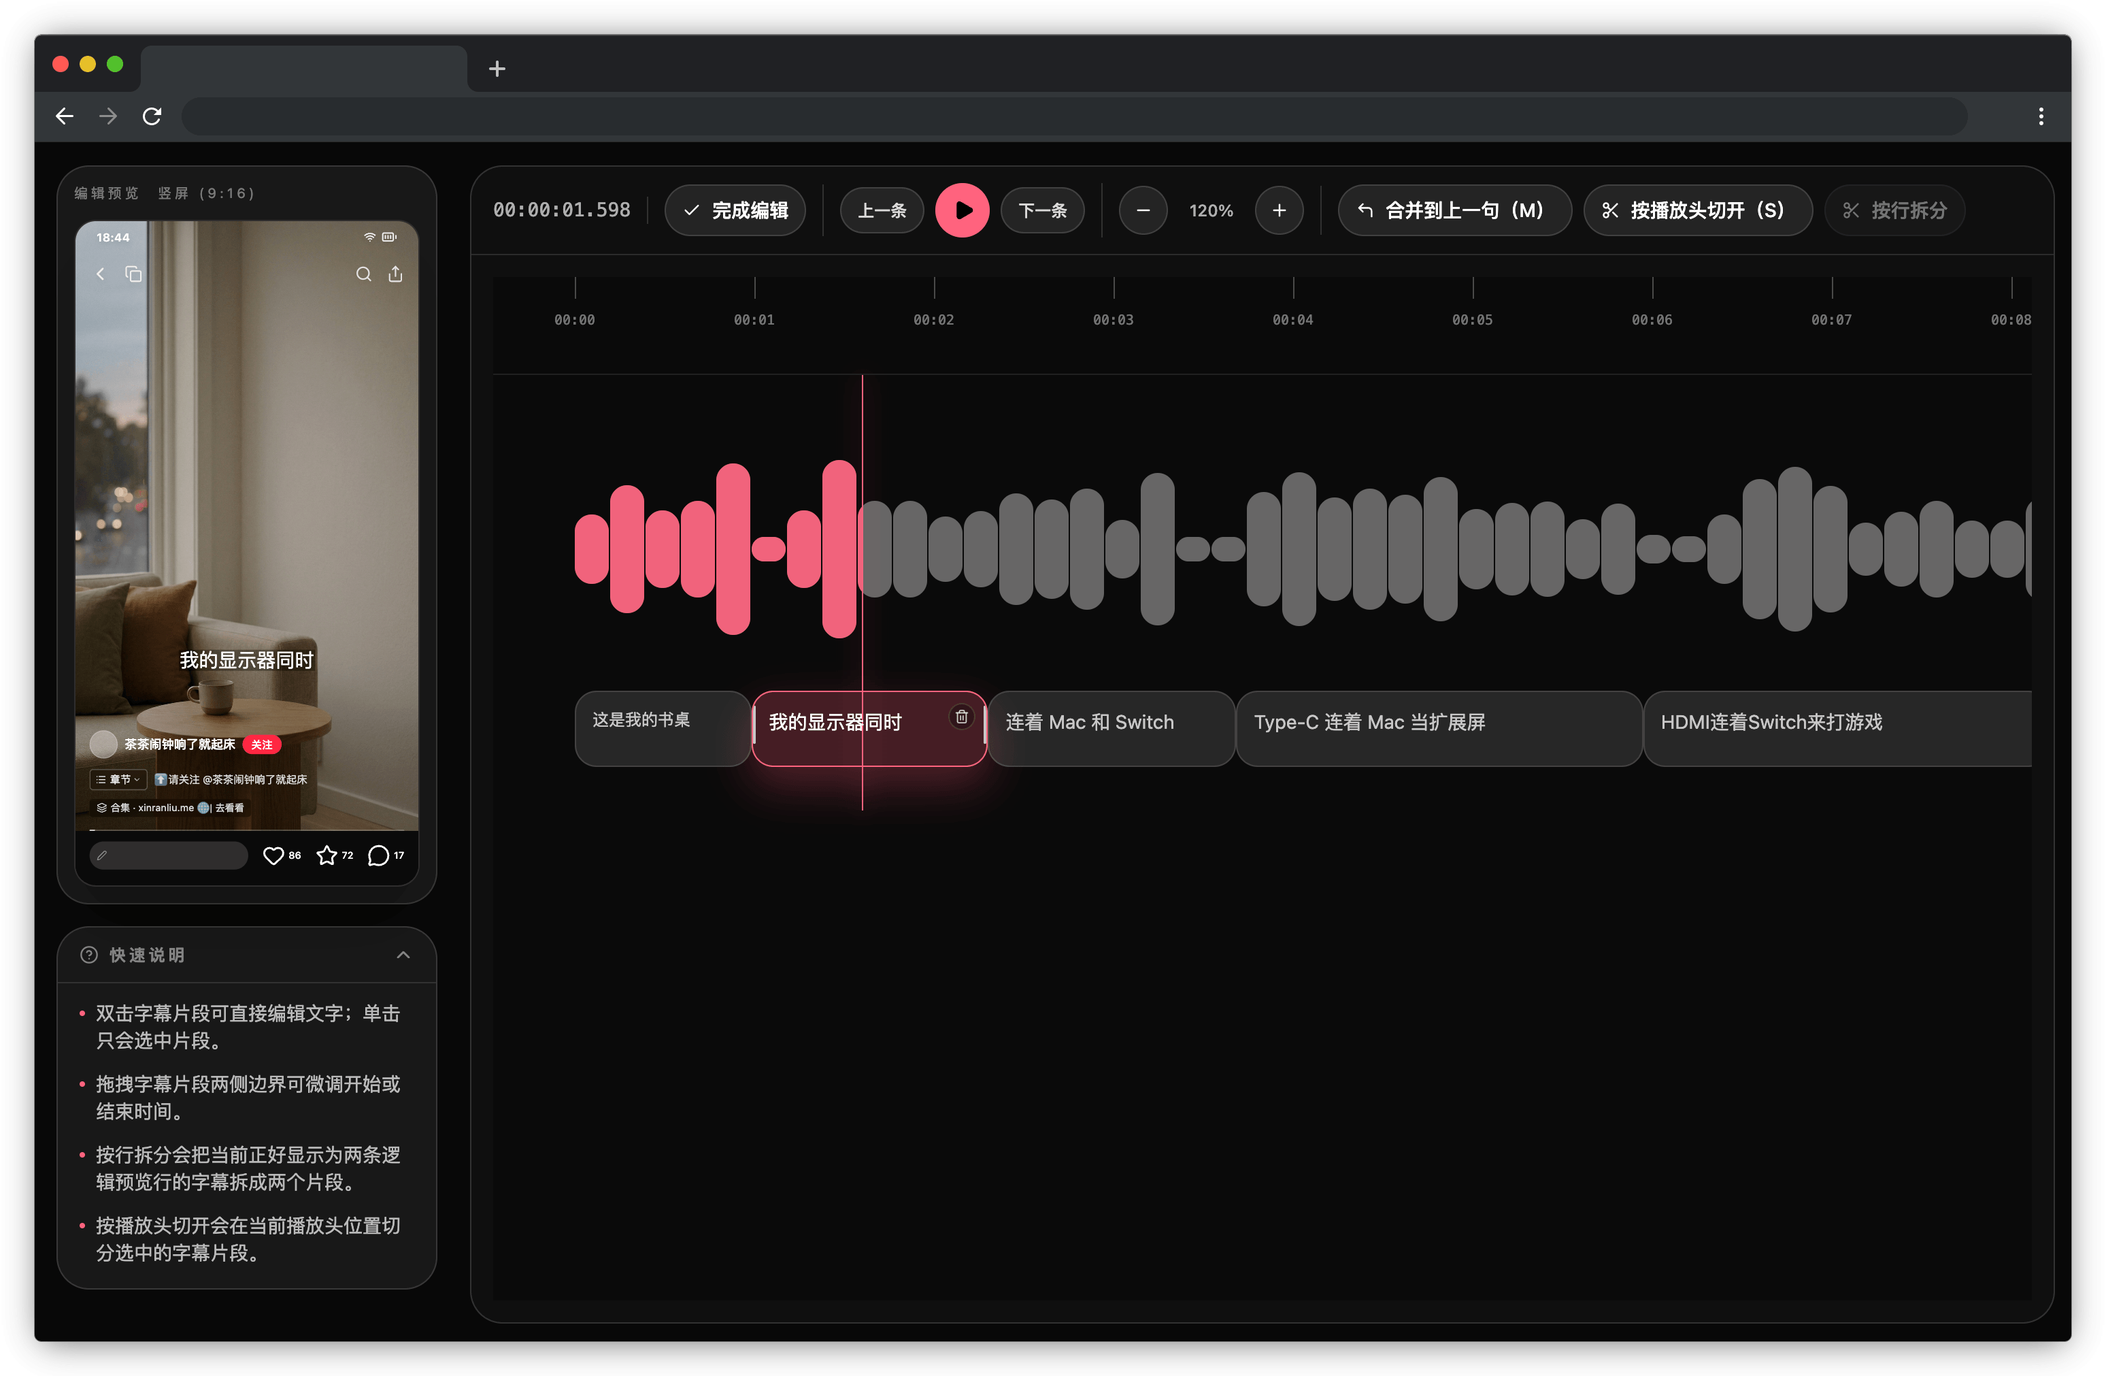
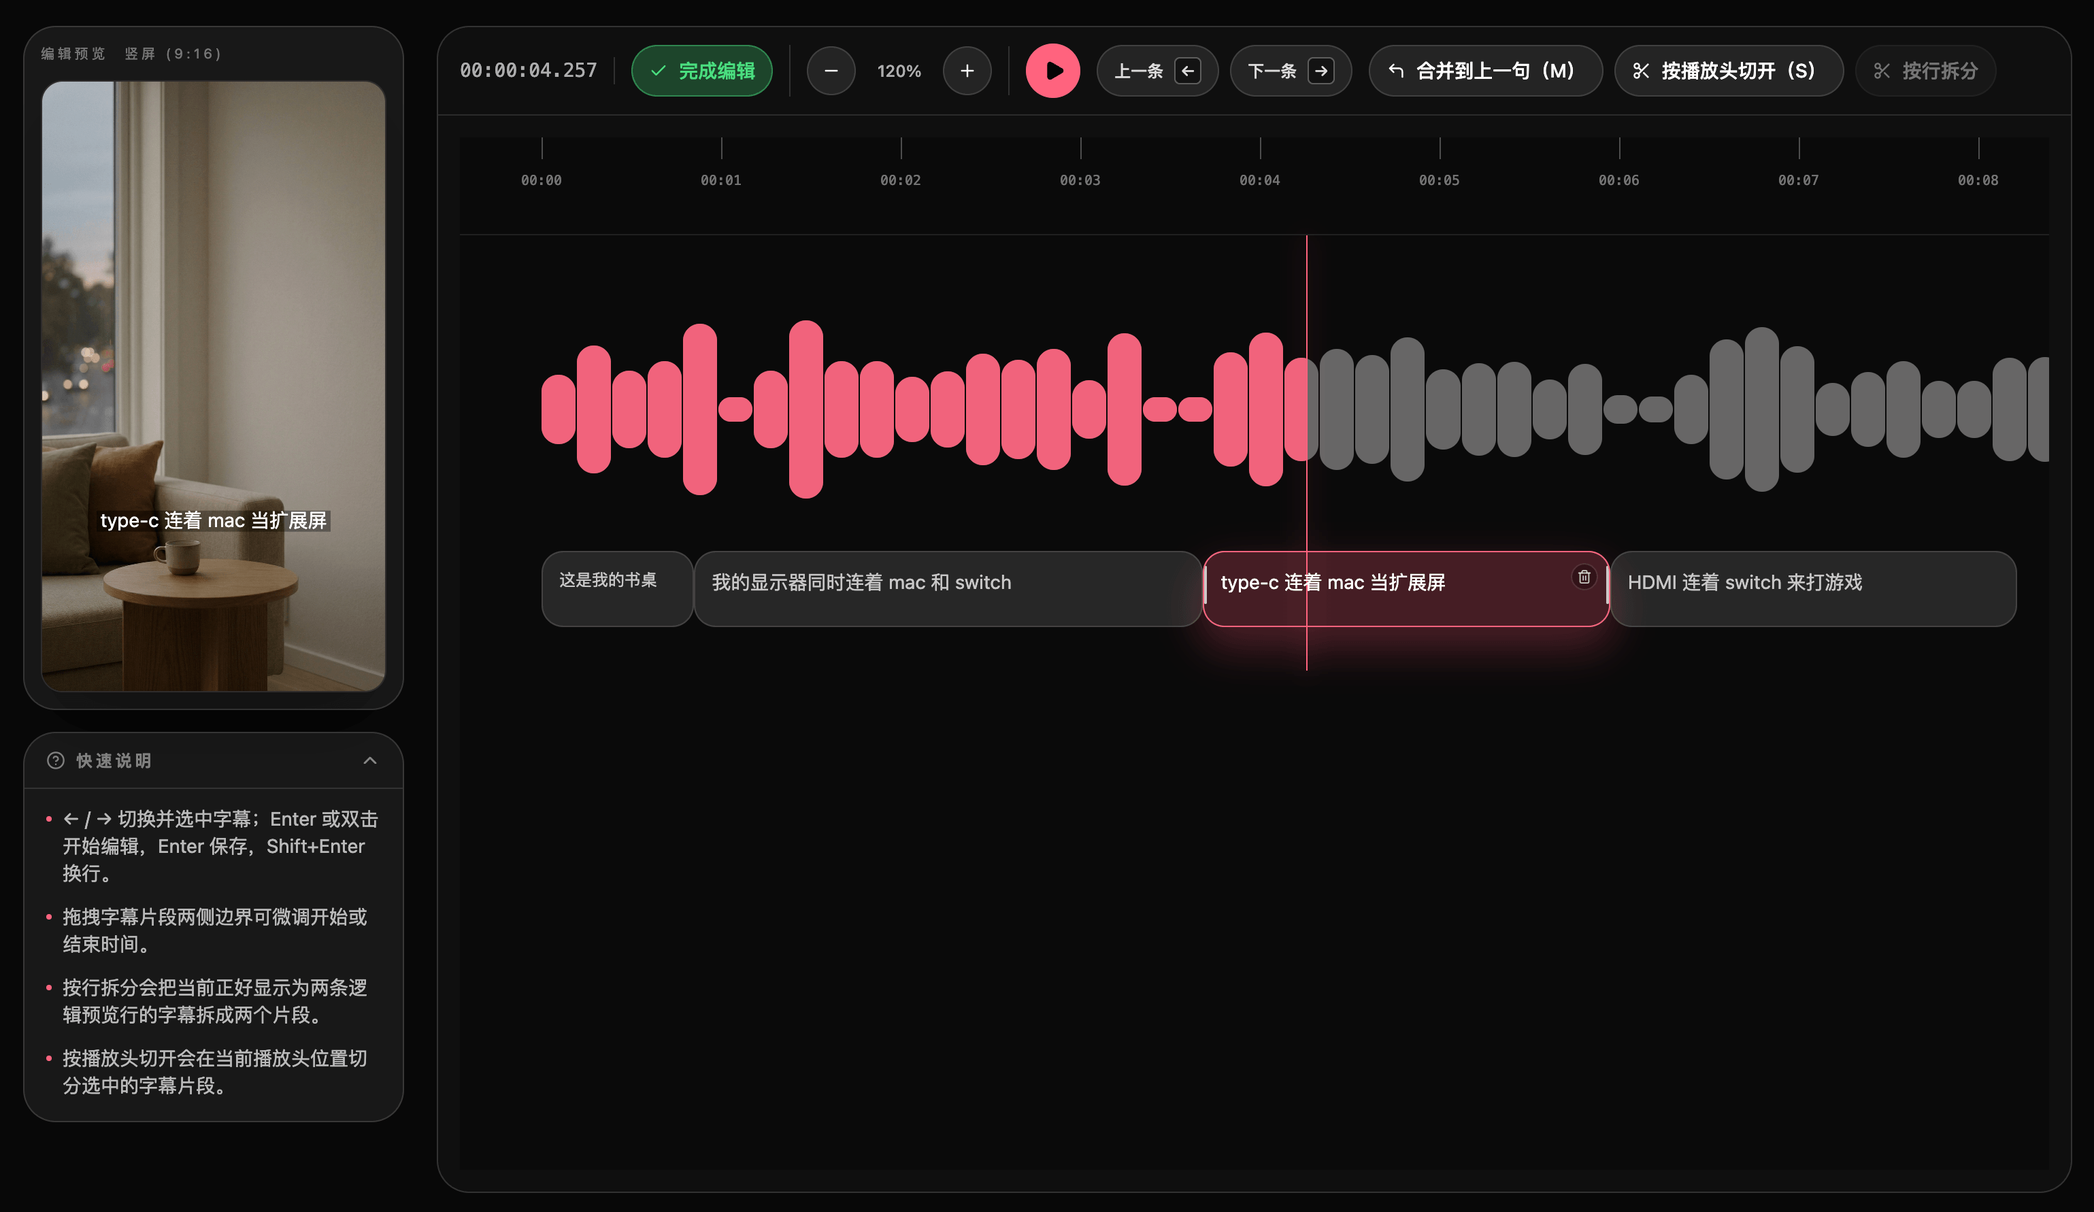
docs: 完成完整文档

diff --git a/docs/final-cut-pro-workflow.en.md b/docs/final-cut-pro-workflow.en.md
@@ -1,11 +1,77 @@
-# Final Cut Pro Workflow
+# Use Exported Subtitles in Final Cut Pro
 
 [Back to User Guide](./user-guide.en.md) · [中文](./final-cut-pro-workflow.zh-CN.md)
 
-1. Finish any text edit and choose “Done Editing” to return to the main workspace.
-2. Check orientation, frame rate, and style, then choose “Export FCPXML” in the header.
-3. Use Final Cut Pro's XML import feature to open the downloaded `.fcpxml`. The export uses FCPXML 1.9; Apple documents Final Cut Pro 10.4.9 or later as the requirement. Keep orientation and frame rate consistent with the target project, and update FCP first if the import fails.
-4. Exported subtitles are organized in a compound clip named `subtitles`. Use it with your actual video project, align the time origin, and check the first subtitle, last subtitle, and gaps.
-5. Check text, backgrounds, placement, and fonts before completing your edit and output.
+Import the app’s FCPXML into Final Cut Pro for Mac, then add the subtitles to an existing video project.
 
-FCPXML contains subtitle text from the current Working Timeline. If you turn on “Subtitle Background”, the corresponding background boxes are also exported. It does not include reference audio, real video, or platform overlays. Manage actual media in FCP.
+## Before you start
+
+- Finish reviewing subtitles in the app, leave editing mode, and choose “Export FCPXML” in the header.
+- Match the export’s orientation and frame rate to the destination Final Cut Pro project.
+- Open the library containing your destination project, with your edited video and audio ready.
+
+The export contains a compound clip made of title clips, with optional backgrounds made using rectangle generators. These are titles, not Final Cut Pro captions. Import XML rather than using Import Captions. Reference audio, actual video, the preview background image, and platform overlays are not included.
+
+## 1. Import the FCPXML
+
+In Final Cut Pro, choose File > Import > XML, select the exported `.fcpxml` file, and import it. If prompted to choose a library, select the library where you want the imported items stored.
+
+![File > Import > XML (Chinese interface)](./images/fcp-workflow/step1.png)
+
+Find the `SRT2FCPXML` event in the Libraries sidebar and the `Subtitles` project in the browser. Event, project, and compound clip names remain in English regardless of the interface language.
+
+![The Subtitles project in the SRT2FCPXML event (Chinese interface)](./images/fcp-workflow/step2.png)
+
+## 2. Copy the subtitle compound clip
+
+Double-click the `Subtitles` project in the browser to open it in the timeline.
+
+Select the entire compound clip named `subtitles`, then press **Command-C** to copy it. Do not include the gray gap clip underneath, and do not open the compound clip to copy individual titles.
+
+![Select and copy the subtitles compound clip](./images/fcp-workflow/step3_en.png)
+
+## 3. Paste into your video project
+
+1. Double-click your actual video project in the browser to open it in the timeline.
+2. Position the playhead at the point corresponding to the subtitles’ time origin. This is usually the project start.
+3. Click the timeline to make it active, then press **Command-V** to paste.
+
+![Paste the subtitle compound clip into the destination project](./images/fcp-workflow/step4_en.png)
+
+Usually, align the left edge of the `subtitles` compound clip with the start of the video. For example, if the first subtitle appears at 3 seconds, the compound clip already includes those 3 seconds of empty space at the beginning. No additional adjustment is needed.
+
+## 4. Edit text, appearance, or timing
+
+Double-click `subtitles` in the destination project’s timeline to open the compound clip’s timeline.
+
+![Open the compound clip to edit its titles and backgrounds](./images/fcp-workflow/step4_2_en.png)
+
+- **Text and font**: Select a title clip and use the Text inspector to change its text, font, size, or color. The app exports PingFang SC Regular by default.
+- **Individual timing**: Trim the start or end of the relevant title clip. If backgrounds are enabled, also trim its matching rectangle generator clip so both appear and disappear together.
+- **Overall timing**: Return to the destination project and move the entire `subtitles` compound clip. Do not retime it to correct a subtitle offset.
+
+Use the back button at the upper left of the timeline to return to the destination project.
+
+## 5. Review and share
+
+Play the destination project and check the first and last subtitles and several passages in between for synchronization. Check fonts, wrapping, placement, background boxes, and obstruction of the picture. Browser preview is not guaranteed to match Final Cut Pro pixel for pixel; use the Final Cut Pro viewer as the final reference.
+
+## Troubleshooting
+
+### What if import fails?
+
+Select the `.fcpxml` exported by this app and use File > Import > XML. The app uses FCPXML 1.9. If Final Cut Pro reports an incompatible version, update Final Cut Pro and try again.
+
+### What if all subtitles are early or late?
+
+Check that the compound clip starts at the original subtitles’ time origin. Move the entire compound clip for a constant offset. If the offset grows over time, check that the subtitles match the same edit and that the export frame rate matches the project.
+
+### Why is there no sound or actual video in the imported project?
+
+The imported project contains only titles and optional backgrounds. Add the compound clip to your actual video project as described above, using that project’s existing video and audio.
+
+## Apple references
+
+- [Use XML to transfer projects](https://support.apple.com/guide/final-cut-pro/verdbd66ae/mac)
+- [Connect clips](https://support.apple.com/guide/final-cut-pro/ver7a77ef9e/mac)
+- [Create compound clips](https://support.apple.com/guide/final-cut-pro/verca9e8d33/mac)

diff --git a/docs/final-cut-pro-workflow.zh-CN.md b/docs/final-cut-pro-workflow.zh-CN.md
@@ -1,11 +1,77 @@
-# Final Cut Pro 工作流
+# 在 Final Cut Pro 中使用导出的字幕
 
 [返回用户指南](./user-guide.zh-CN.md) · [English](./final-cut-pro-workflow.en.md)
 
-1. 结束当前文字编辑，点击“完成编辑”返回主界面。
-2. 检查画幅、帧率与样式，点击顶部“导出 FCPXML”。
-3. 在 Final Cut Pro 中通过 XML 导入功能打开下载的 `.fcpxml`。导出格式为 FCPXML 1.9，Apple 文档标注需 Final Cut Pro 10.4.9 及以上；画幅与帧率需与目标项目一致，导入异常时先确认 FCP 已更新到较新版本。
-4. 导出字幕组织在名为 `subtitles` 的复合片段中。结合你的真实视频项目使用该片段，对齐时间起点，并检查首句、末句和字幕间隔。
-5. 检查文字、背景、位置和字体效果，再完成后续剪辑与输出。
+本指南介绍如何将本应用导出的 FCPXML 导入 Mac 版 Final Cut Pro，再把字幕添加到已有视频项目中。
 
-FCPXML 包含当前工作字幕时间线的字幕文字；如果打开“字幕背景”开关，也会导出对应的背景框。参考音频、真实视频和平台浮层不参与导出，真实媒体仍由你在 FCP 中管理。
+## 开始前
+
+- 在本应用中完成字幕校对，退出编辑模式，点击顶部“导出 FCPXML”。
+- 确保导出时选择的画幅和帧率与目标 Final Cut Pro 项目一致。
+- 在 Final Cut Pro 中打开存放目标项目的资源库，并准备好已剪辑的视频和音频。
+
+导出内容是由标题字幕片段组成的复合片段，可包含矩形生成器制作的背景框；它不是 Final Cut Pro 的“隐藏式字幕”。请使用 XML 导入，不要使用“导入隐藏式字幕”。参考音频、真实视频、预览背景图和平台浮层不包含在导出文件中。
+
+## 1. 导入 FCPXML
+
+在 Final Cut Pro 中，选取“文件”>“导入”>“XML…”，选择本应用导出的 `.fcpxml` 文件并导入。如果出现资源库选择提示，选择要存放导入内容的资源库。
+
+![从文件菜单导入 XML](./images/fcp-workflow/step1.png)
+
+导入后，在资源库边栏中找到事件 `SRT2FCPXML`，并在浏览器中找到项目 `Subtitles`。事件、项目和复合片段的名称保持英文，不随界面语言切换。
+
+![事件 SRT2FCPXML 中的 Subtitles 项目](./images/fcp-workflow/step2.png)
+
+## 2. 拷贝字幕复合片段
+
+双击浏览器中的 `Subtitles` 项目，在时间线中打开它。
+
+单击选中名为 `subtitles` 的整个复合片段，按 **Command-C** 拷贝。不要把下方灰色的间隙片段一起选中；也不需要进入复合片段逐条拷贝字幕。
+
+![选中 subtitles 复合片段并拷贝](./images/fcp-workflow/step3_cn.png)
+
+## 3. 粘贴到目标视频项目
+
+1. 在浏览器中双击你实际剪辑的视频项目，在时间线中打开它。
+2. 将播放头移到字幕时间起点对应的位置。通常是项目开头。
+3. 点按时间线使其处于活跃状态，按 **Command-V** 粘贴。
+
+![在目标项目中粘贴字幕复合片段](./images/fcp-workflow/step4_cn.png)
+
+通常，将 `subtitles` 复合片段的左边缘对齐视频开头即可。例如，第一句字幕在第 3 秒出现，复合片段开头就已包含这 3 秒空白，不需要再移动字幕。
+
+## 4. 修改文字、样式或时间
+
+双击目标项目时间线中的 `subtitles` 复合片段，打开其内部时间线。
+
+![打开复合片段，编辑内部标题字幕和背景](./images/fcp-workflow/step4_2_cn.png)
+
+- **修改文字与字体**：选中对应的标题字幕片段，在文本检查器中修改文字、字体、字号或颜色。应用导出的默认字体为 PingFang SC Regular。
+- **调整单句时间**：修剪对应标题字幕片段的起点或终点。启用了背景时，同时调整对应的矩形生成器片段，确保背景与文字同时出现和消失。
+- **整体调整时间**：返回目标项目时间线，移动整个 `subtitles` 复合片段。不要通过改变复合片段的播放速度校正字幕偏移。
+
+完成后，使用时间线左上方的返回按钮回到目标项目。
+
+## 5. 检查并输出成片
+
+播放目标项目，检查第一句、最后一句和中间几处对白，确认同步；再检查字体、换行、位置、背景框以及画面遮挡。浏览器预览不保证与 Final Cut Pro 像素级一致，以 Final Cut Pro 检视器中的结果为准。
+
+## 常见问题
+
+### 导入失败怎么办？
+
+确认选择的是本应用导出的 `.fcpxml`，并通过“文件”>“导入”>“XML…”导入。应用使用 FCPXML 1.9；如果 Final Cut Pro 提示版本不兼容，先更新 Final Cut Pro 后重试。
+
+### 字幕整体提前或延后怎么办？
+
+先检查复合片段的起点是否对齐原始字幕的计时起点。如果偏移量固定，移动整个复合片段；如果越往后偏差越大，检查字幕是否对应同一个剪辑版本，以及导出帧率是否匹配。
+
+### 为什么没有声音，或者单独打开时看不到真实视频？
+
+导入的项目只包含字幕及可选背景。按上述步骤将复合片段添加到真实视频项目，使用该项目已有的视频和音频。
+
+## Apple 官方参考
+
+- [使用 XML 传输项目](https://support.apple.com/zh-cn/guide/final-cut-pro/verdbd66ae/mac)
+- [连接片段](https://support.apple.com/zh-cn/guide/final-cut-pro/ver7a77ef9e/mac)
+- [创建复合片段](https://support.apple.com/zh-cn/guide/final-cut-pro/verca9e8d33/mac)

diff --git a/docs/user-guide.en.md b/docs/user-guide.en.md
@@ -18,9 +18,13 @@ Choose the target orientation and frame rate first:
 
 Set the overall orientation, font size, and layout before editing individual clips.
 
+![Prepare files and layout (Chinese interface)](./images/layout_screenshot.png)
+
 ## 2. Import subtitles and handle punctuation
 
 Choose an `.srt` file in the upload area. The app automatically splits long subtitles and creates the preview.
+
+![Import subtitles and handle punctuation (Chinese interface)](./images/import_screenshot.png)
 
 “Remove subtitle punctuation” is enabled by default. Processing preserves manual line breaks, apostrophes and hyphens within Latin words, and numeric formatting symbols within numbers. Chinese punctuation is removed; punctuation between English words becomes a space. Punctuation-only clips may become empty time ranges.
 
@@ -29,6 +33,8 @@ Toggling this option does not immediately change existing subtitles. To apply it
 ## 3. Style and preview
 
 Adjust font size and text color. To add a background to subtitles, turn on “Subtitle Background”, then adjust its color, opacity, corner radius, and total horizontal / vertical padding. Total padding is the combined space on both sides of that axis.
+
+![Style and preview (Chinese interface)](./images/style_screenshot.jpeg)
 
 Each box is sized for its subtitle and appears only for that subtitle's duration. Subtitle backgrounds are exported; the preview background image and platform overlays are not.
 
@@ -56,17 +62,23 @@ Reference audio supports playback synchronization and the Waveform Timeline and 
 
 S / M operate on the timeline outside text input. If a button is unavailable, finish text editing and check the selected clip and playhead position.
 
-Cut at Playhead estimates the text split from the time ratio. It may cut within an English word and is not word-level audio alignment. Listen and check the resulting text. Pausing or seeking on the timeline selects the subtitle at the playhead; a gap clears selection.
+Pausing or seeking on the timeline selects the subtitle at the playhead; a gap clears selection.
+
+> **Note:** Cut at Playhead estimates the text split from the time ratio. It may cut within an English word and is not word-level audio alignment. Listen and check the resulting text.
 
 ## 5. Understand reflow
 
 “Reflow All Subtitles” (Subtitle Reflow) rebuilds the Working Timeline from the original imported subtitles. Confirming an orientation change also triggers this process.
 
+![Understand reflow (Chinese interface)](./images/reflow_screenshot.png)
+
 Reflow may replace edited text, splits, line breaks, merges, and timing boundaries. It does not simply wrap the current edits again. Complete global layout work before individual edits. Export an FCPXML first if you need to preserve a usable result; that export is for FCP, not a project backup that this app can reopen.
 
 ## 6. Export and use in Final Cut Pro
 
-After reviewing, leave editing mode and choose “Export FCPXML” in the header. To learn how to use the exported FCPXML file in Final Cut Pro, see the separate [Final Cut Pro Workflow](./final-cut-pro-workflow.en.md) guide.
+After reviewing, leave editing mode and choose “Export FCPXML” in the header. To learn how to use the exported FCPXML file in Final Cut Pro, see the separate [Use Exported Subtitles in Final Cut Pro](./final-cut-pro-workflow.en.md) guide.
+
+FCPXML contains subtitle text from the current Working Timeline and, when “Subtitle Background” is enabled, the corresponding background boxes. Reference audio, actual video, and platform overlays are not exported; manage actual media in Final Cut Pro.
 
 ## Troubleshooting
 

diff --git a/README.md b/README.md
@@ -4,8 +4,7 @@
 
 A browser-based subtitle tool for Final Cut Pro. Import SRT, adjust layout and timing, and export FCPXML. Subtitle and reference-audio processing runs locally in your browser.
 
-<!-- 占位地址：上线后替换为真实域名 -->
-在线使用：<https://xinranliu.me/srt-to-fcpxml/>　Use it online: <https://xinranliu.me/srt-to-fcpxml/>
+在线使用：<https://tools.xinranliu.me/srt-to-fcpxml/>　Use it online: <https://tools.xinranliu.me/srt-to-fcpxml/>
 
 ## 核心亮点 / Highlights
 
@@ -24,7 +23,7 @@ A browser-based subtitle tool for Final Cut Pro. Import SRT, adjust layout and t
 | 简介与本地运行 / Overview & local setup | [项目说明](./README.zh-CN.md) | [Project overview](./README.en.md) |
 | 使用流程与编辑 / Workflow & editing | [用户指南](./docs/user-guide.zh-CN.md) | [User Guide](./docs/user-guide.en.md) |
 | 生成 SRT / Generate an SRT | [如何生成 SRT](./docs/how-to-generate-srt.zh-CN.md) | [How to generate an SRT](./docs/how-to-generate-srt.en.md) |
-| Final Cut Pro 工作流 / Final Cut Pro workflow | [FCP 使用说明](./docs/final-cut-pro-workflow.zh-CN.md) | [FCP workflow](./docs/final-cut-pro-workflow.en.md) |
+| 在 Final Cut Pro 中使用导出的字幕 / Use Exported Subtitles in Final Cut Pro | [在 Final Cut Pro 中使用导出的字幕](./docs/final-cut-pro-workflow.zh-CN.md) | [Use Exported Subtitles in Final Cut Pro](./docs/final-cut-pro-workflow.en.md) |
 
 ## 快速流程 / Quick workflow
 

diff --git a/README.zh-CN.md b/README.zh-CN.md
@@ -4,8 +4,7 @@
 
 将已有的 `.srt` 字幕转换为 Final Cut Pro 可导入的 `.fcpxml`，在导出前完成字幕排版、校对和轻量编辑。适合已经有字幕文件、希望减少 FCP 内逐条调整工作的桌面用户。
 
-<!-- 占位地址：上线后替换为真实域名 -->
-在线使用：<https://xinranliu.me/srt-to-fcpxml/>　本地运行见[本地运行与开发](#本地运行与开发)。
+在线使用：<https://tools.xinranliu.me/srt-to-fcpxml/>　本地运行见[本地运行与开发](#本地运行与开发)。
 
 ![字幕工作区](./docs/images/intro_screenshot.png)
 
